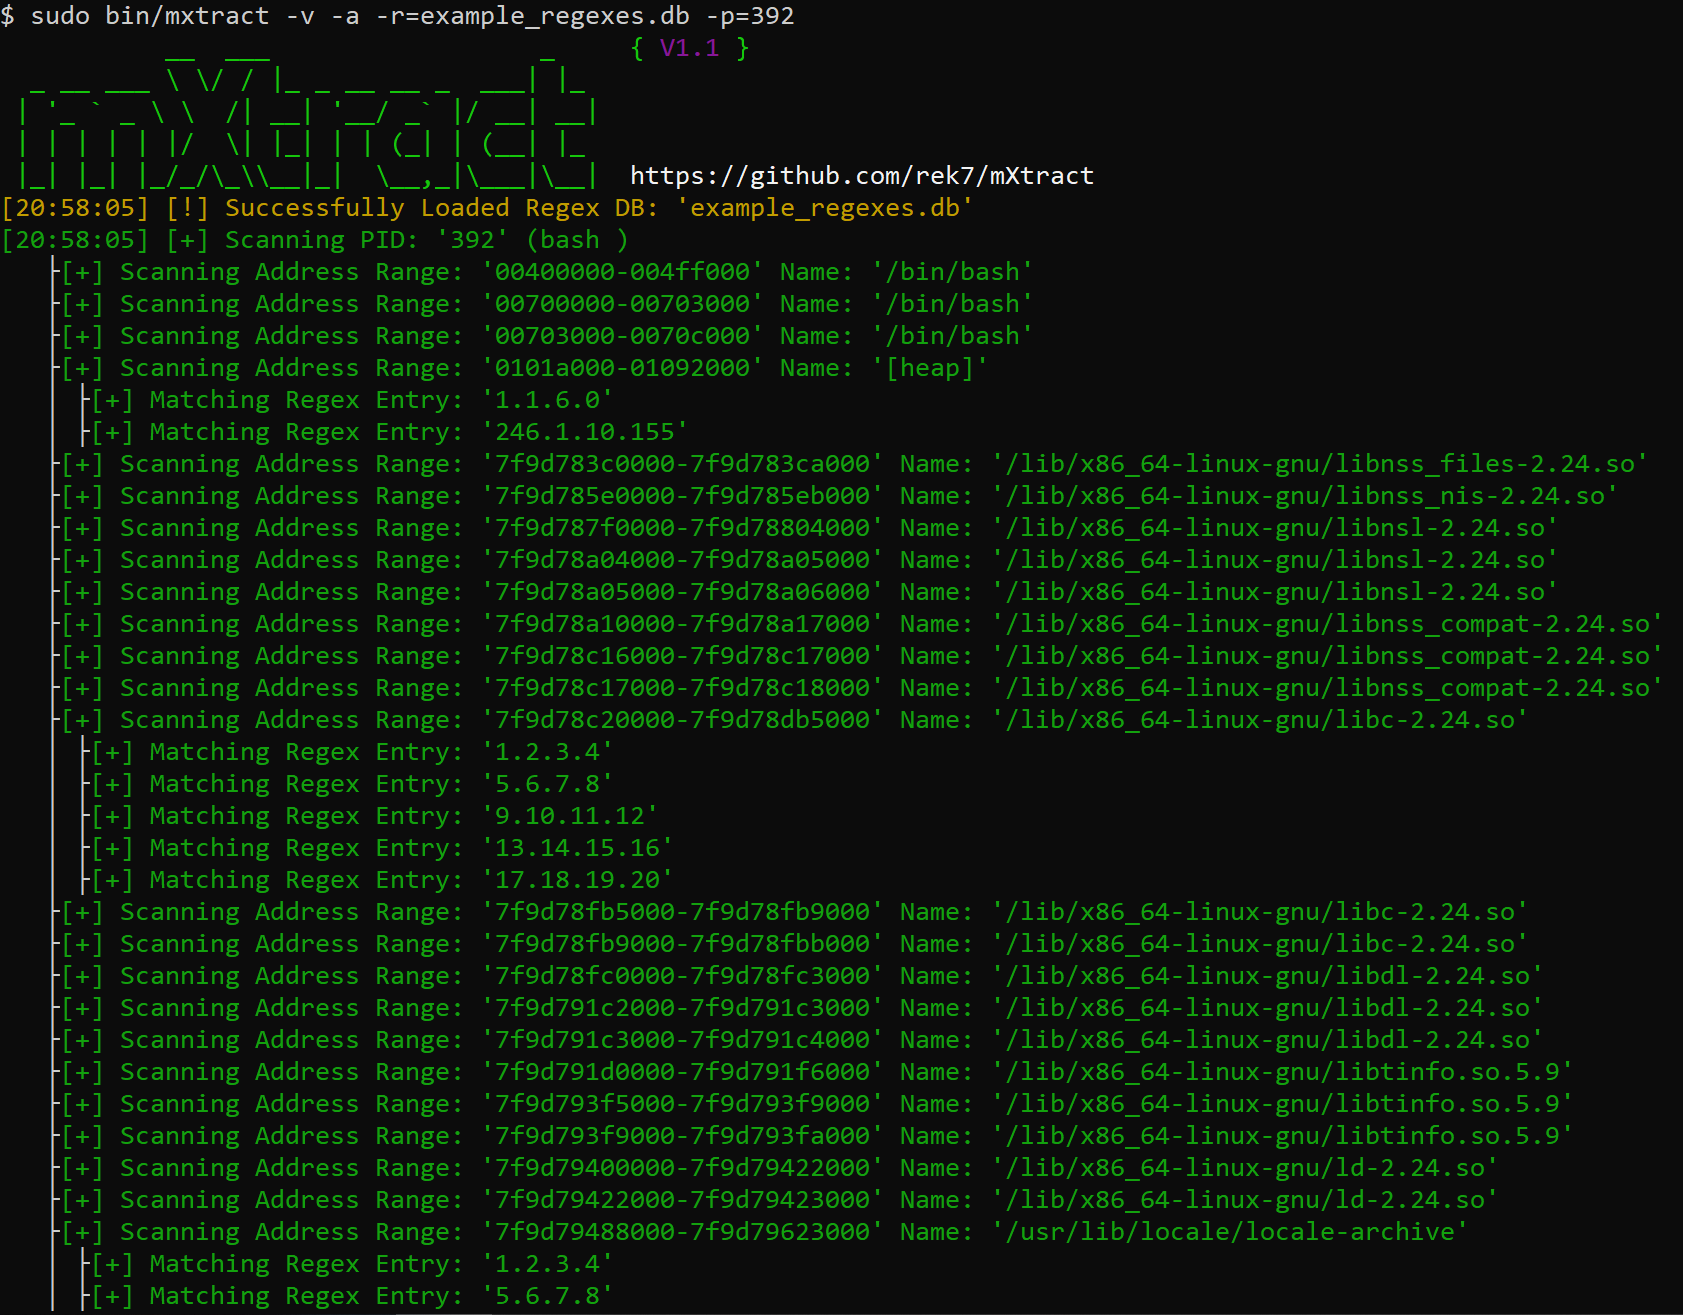
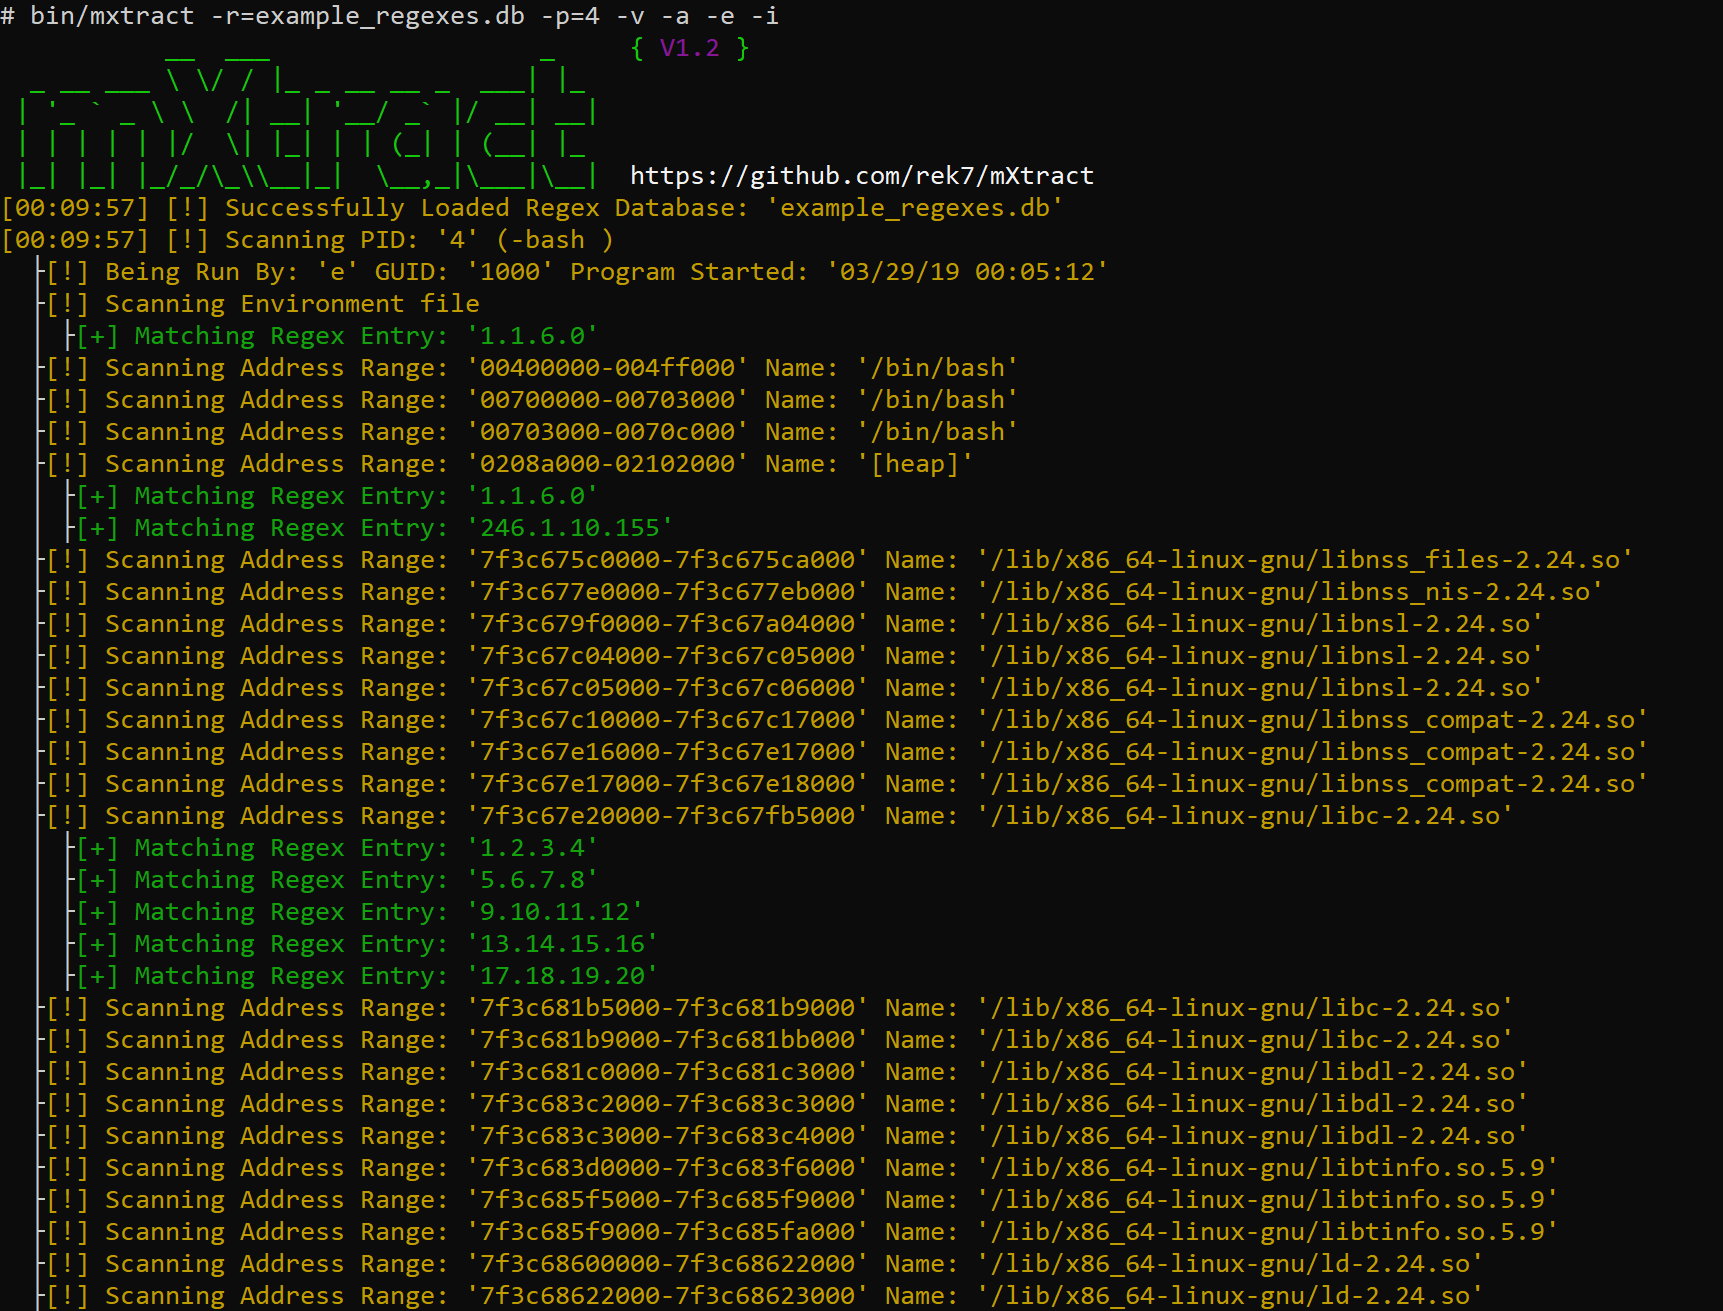
Added Proc info, env file scanning, bug fixes and quality of life updates

Changed region(s): [[0.0, 0.0, 0.9887, 1.0]]

diff --git a/src/arg.cpp b/src/arg.cpp
@@ -5,36 +5,43 @@ class arg : public misc{
             args = argv;
             argn = argc;
         }
+
         void banner(void) {
             if(!option.suppress_banner) {
-                cout << (option.is_colored ? LIGHT_GREEN : "")<< "           __  ___                  _     " 
-                    << "{ " << (option.is_colored ? MAGENTA : "") << "V" << VERSION << (option.is_colored ? LIGHT_GREEN : "") << " }"
-                    << endl << "  _ __ ___ \\ \\/ / |_ _ __ __ _  ___| |_ "
-                    << endl << " | '_ ` _ \\ \\  /| __| '__/ _` |/ __| __|"
-                    << endl << " | | | | | |/  \\| |_| | | (_| | (__| |_ "
-                    << endl << " |_| |_| |_/_/\\_\\\\__|_|  \\__,_|\\___|\\__|  "
-                    << (option.is_colored ? WHITE : "") << "https://github.com/rek7/mXtract"
-                    << (option.is_colored ? NORMAL : "") << endl; // http://patorjk.com/software/taag/#p=display&f=Doom&t=mXtract
+                cout << (option.is_colored ? LIGHT_GREEN : "") << "           __  ___                  _     " 
+                << "{ " << (option.is_colored ? MAGENTA : "") << "V" << VERSION << (option.is_colored ? LIGHT_GREEN : "") << " }"
+                << endl << "  _ __ ___ \\ \\/ / |_ _ __ __ _  ___| |_ "
+                << endl << " | '_ ` _ \\ \\  /| __| '__/ _` |/ __| __|"
+                << endl << " | | | | | |/  \\| |_| | | (_| | (__| |_ "
+                << endl << " |_| |_| |_/_/\\_\\\\__|_|  \\__,_|\\___|\\__|  "
+                << (option.is_colored ? WHITE : "") << "https://github.com/rek7/mXtract"
+                << (option.is_colored ? NORMAL : "") << endl; // http://patorjk.com/software/taag/#p=display&f=Standard&t=mXtract
             }
         }
         
         void usage(void)
         {
-            cout << "USAGE: " << args[0] << " -(args)" << endl
+            cout << "Usage: " << args[0] << " [args]" << endl
+            << "General:" << endl
             << "\t-v\tEnable Verbose Output" << endl
             << "\t-s\tSuppress Banner" << endl
             << "\t-h\tHelp" << endl
-            << "\t-c\tsuppress colored output" << endl
-            << "\t-r=\tRegex DB" << endl
-            << "\t-a\tScan all memory ranges not just heap/stack" << endl
-            << "\t-w\tWrite raw memory to file Default directory is " << option.directory << endl
-            << "\t-o\tWrite regex output to file" << endl
+            << "\t-c\tSuppress Colored Output" << endl
+            << "Target and Regex:" << endl
+            << "\t-i\tShow Detailed Process/User Info" << endl
+            << "\t-a\tScan all Memory Ranges not just Heap/Stack" << endl
+            << "\t-e\tScan Process Environment Files" << endl
+            << "\t-r=\tRegex Database to Use" << endl
+            << "\t-p=\tSpecify Single PID to Scan" << endl
+            << "Output:" << endl
+            << "\t-wm\tWrite Raw Memory to File Default Directory is: '" << option.directory << "'" << endl
+            << "\t-wi\tWrite Process Info to Beginning of File (Used in Conjunction with -w)" << endl
+            << "\t-wr\tWrite Regex Output to File (Will Appear in the Output Directory)" << endl
+            << "\t-f=\tRegex Results Filename Default is: '" << option.regex_result_filename << "'" << endl
             << "\t-d=\tCustom Ouput Directory" << endl
-            << "\t-p=\tSpecify single pid to scan" << endl
-            << "\tEither -r= or -w needed" << endl
-            << "Example usage: " << args[0] << " -w -a -d=/tmp/output/ -o -r=regex.db" << endl;
+            << "Either -r= or -wm needed" << endl
+            << "Example usage: '" << args[0] << " -wm -wr -e -i -d=/tmp/output/ -r=example_regexes.db'" << endl;
         }
-        
         bool parse_args(void) // returns false when program isnt able to be run
         {
             bool is_required = false;
@@ -60,21 +67,33 @@ class arg : public misc{
                         is_required = true;
                         option.regex_db = string(args[i]).substr(3, string(args[i]).size());
                     }
+                    else if(arg == "-f=") {
+                        option.regex_result_filename = string(args[i]).substr(3, string(args[i]).size());
+                    }
+                    else if(arg == "-wr") {
+                        option.is_regex_write = true;
+                    }
+                    else if(arg == "-wi") {
+                        option.is_write_proc_info = true;
+                    }
+                    else if(arg == "-wm") {
+                        is_required = true;
+                        option.is_write = true;
+                    }
                     else if(arg == "-s") {
                         option.suppress_banner = true;
                     }
                     else if(arg == "-a") {
                         option.dump_all = true;
                     }
+                    else if(arg == "-i") {
+                        option.is_proc_info = true;
+                    }
                     else if(arg == "-c") {
                         option.is_colored = false;
                     }
-                    else if(arg == "-o") {
-                        option.is_regex_write = true;
-                    }
-                    else if(arg == "-w") {
-                        is_required = true;
-                        option.is_write = true;
+                    else if(arg == "-e") {
+                        option.is_env_scan = true;
                     }
                     else if(arg == "-h") {
                         banner();
@@ -86,7 +105,7 @@ class arg : public misc{
             if(!is_required)
             {
                 banner();
-                format_print("Required args needed -h for help", RED, '-');
+                format_print("Required Args Needed -h For help", RED, '-');
                 return false;
             }
             return true;

diff --git a/src/controller.cpp b/src/controller.cpp
@@ -10,7 +10,7 @@ class controller : public misc {
                 }
             }
         }
-        format_print((r.load_regex() ? "Successfully Loaded Regex DB: '" + option.regex_db + "'" : "No Regexes Loaded"), YELLOW, '!');
+        format_print((r.load_regex() ? "Successfully Loaded Regex Database: '" + option.regex_db + "'" : "No Regexes Loaded"), YELLOW, '!');
     }
     
     bool is_read_section(string section) 
@@ -21,13 +21,43 @@ class controller : public misc {
         return true;
     }
     
+    void handle_data(string data, string proc_name, string found_location, string file_name)
+    {
+        if(!option.regex_db.empty()) {
+            vector<string> results = r.regex_match(data);
+            if(option.is_regex_write && !results.empty()) {
+                for(auto &result: results) {
+                    write_dump(proc_name + ":" + result, option.regex_result_filename);
+                }
+            }
+        }
+        if(option.is_write) {
+            write_dump(found_location + ":" + data, "mem_" + file_name + ".dmp");
+        }
+    }
+    
     bool process_pid(pid_t pid) 
     {
         process_operations process(pid);
         vector<vector<string>> ranges = process.get_ranges();
         if(!ranges.empty()) {
             string name = pid_to_name(to_string(pid));
-            format_print("Scanning PID: '" + to_string(pid) + "' (" + name + ")", GREEN, '+');
+            format_print("Scanning PID: '" + to_string(pid) + "' (" + name + ")", YELLOW, '!');
+            if(option.is_proc_info) {
+                string proc_info = process.proc_info();
+                if(option.is_write_proc_info && !proc_info.empty()) {
+                    write_dump(proc_info, "mem_" + to_string(pid) + ".dmp");
+                }
+            }
+            if(option.is_env_scan) {
+                string content = process.proc_env();
+                format_print("Scanning Environment file", YELLOW, '!', 1, true, false);
+                if(!content.empty()) {
+                    handle_data(content, name, "environ", to_string(pid));
+                } else {
+                    format_print("ENV FILE EMPTY OR UNABLE TO READ", RED, '-', (option.is_verbose ? 2 : 1), false, false);
+                }
+            }
             if(!process.attach_pid()) {
                 format_print("ERROR ATTACHING TO PROCESS", RED, '-', 1, false, false);
                 return false;
@@ -35,7 +65,7 @@ class controller : public misc {
             wait(NULL);
             for(auto &value: ranges) {
                 if(!value.empty() && is_read_section(value[1])) {
-                    format_print("Scanning Address Range: '" +  value[0] + "' Name: '" + value[1] + "'", GREEN, '+', 1, true, false);
+                    format_print("Scanning Address Range: '" +  value[0] + "' Name: '" + value[1] + "'", YELLOW, '!', 1, true, false);
                     vector<string> range = tokenize(value[0], '-');
                     long start_addr = strtol(range[0].c_str(), NULL, 16);
                     long end_addr = strtol(range[1].c_str(), NULL, 16);
@@ -46,22 +76,10 @@ class controller : public misc {
                     size_t len = end_addr-start_addr;
                     void *data = process.start_read((void *)start_addr, len);
                     if(data) {
-                        stringstream tmp_buff;
-                        tmp_buff.write((char *)data, len);
+                        string info((char *)data, len);
                         free(data);
-                        string info = tmp_buff.str();
                         strip_unicode(info);
-                        if(!option.regex_db.empty()) {
-                            vector<string> results = r.regex_match(info);
-                            if(option.is_regex_write && !results.empty()) {
-                                for(auto &result: results) {
-                                    write_dump(name + ":" + result, "regex_results");
-                                }
-                            }
-                        }
-                        if(option.is_write) {
-                            write_dump(value[0] + ": " + info, to_string(pid));
-                        }
+                        handle_data(info, name, value[0], to_string(pid));
                     }
                     else {
                         format_print("ERROR SCANNING MEMORY RANGE", RED, '-', (option.is_verbose ? 2 : 1), false, false);

diff --git a/src/process_operations.cpp b/src/process_operations.cpp
@@ -1,4 +1,4 @@
-class process_operations : public misc{
+class process_operations : public misc {
     public:
         process_operations(pid_t proc_pid) {
             pid = proc_pid;
@@ -50,9 +50,36 @@ class process_operations : public misc{
                     free(data);
                     return NULL;
                 }
-                memcpy(data+offset, &word, sizeof(word));
+                memcpy((uint8_t *)data+offset, &word, sizeof(word));
             }
             return data;
+        }
+
+        string proc_env(void) 
+        {
+            string file_content;
+            ifstream read_environ("/proc/" + to_string(pid) + "/environ"); 
+            if(read_environ.is_open()) {
+                getline(read_environ, file_content); // its a single line
+            }
+            return file_content;
+        }
+
+        string proc_info(void)
+        {
+            string content;
+            struct stat st = {0};
+            if (lstat(string("/proc/" + to_string(pid) + "/stat").c_str(), &st) != -1) {
+                struct passwd *pw = getpwuid(st.st_uid);
+                if(pw) {
+                    content += string(string(pw->pw_name) + ":" + to_string(st.st_gid) + ":" + to_string(st.st_atime));
+                    format_print(string("Being Run By: '" + string(pw->pw_name) + "' GUID: '" + to_string(st.st_gid) + 
+                        "' Program Started: '" + formatted_time("%m/%d/%y %X", st.st_atime)) + "'", YELLOW, '!', 1, false, false);
+                } else {
+                    format_print("Unable to Get Process Info", RED, '-', 1, false, false);
+                }
+            }
+            return content;
         }
 
         bool attach_pid(void)

diff --git a/src/misc.cpp b/src/misc.cpp
@@ -13,7 +13,7 @@ class misc {
 
     bool write_dump(string data, string name)
     {
-        ofstream dump(option.directory + name + ".txt", ios::app | ios::binary);
+        ofstream dump(option.directory + name, ios::app);
         if(dump.is_open()) {
             dump << data << endl;
             dump.close();
@@ -42,9 +42,8 @@ class misc {
         }
     }
 
-    string formatted_time(char *time_format)
+    string formatted_time(char *time_format, time_t current = time(NULL))
     {
-        time_t current = time(NULL);
         struct tm current_time = *localtime(&current);
         char buf[80];
         strftime(buf, sizeof(buf), time_format, &current_time);

diff --git a/src/global.h b/src/global.h
@@ -9,18 +9,22 @@
 #define WHITE "\e[97m"
 #define NORMAL "\e[39m"
 
-#define VERSION 1.1
+#define VERSION 1.2
 
 struct options {
     string regex_db;
+    string regex_result_filename = "regex_results.txt";
     string directory = "pid/";
     pid_t pid = 0;
+    bool suppress_banner = false;
     bool dump_all = false;
+    bool is_proc_info = false;
+    bool is_write_proc_info = false;
     bool is_verbose = false;
     bool is_write = false;
     bool is_colored = true;
+    bool is_env_scan = false;
     bool is_regex_write = false;
-    bool suppress_banner = false;
 };
 
 #endif

diff --git a/src/main.cpp b/src/main.cpp
@@ -14,12 +14,11 @@ options option; // creating instance of options struct to fill in with user data
 
 int main(int argc, char *argv[]) {
     arg a(argc, argv);
-    if(!a.parse_args()) {
-        exit(EXIT_FAILURE);
+    if(a.parse_args()) {
+        a.banner();
+        a.warn_user();
+        controller c;
+        c.begin_scan();
     }
-    a.banner();
-    a.warn_user();
-    controller c;
-    c.begin_scan();
     return EXIT_SUCCESS;
 }

diff --git a/src/includes.h b/src/includes.h
@@ -17,6 +17,7 @@ extern "C" {
     #include <unistd.h>
     #include <sys/stat.h>
     #include <sys/wait.h>
+    #include <pwd.h>
 }
 
 #endif

diff --git a/README.md b/README.md
@@ -1,17 +1,17 @@
 # mXtract
-[![Build Status](https://travis-ci.org/rek7/mXtract.svg?branch=master)](https://travis-ci.org/rek7/mXtract) [![License](https://img.shields.io/badge/license-MIT-green.svg)](https://github.com/rek7/mXtract/blob/master/LICENSE) [![Twitter](https://img.shields.io/badge/Twitter-%400x726B-blue.svg)](https://twitter.com/0x726B)
-
+[![Build Status](https://travis-ci.org/rek7/mXtract.svg?branch=master)](https://travis-ci.org/rek7/mXtract) [![License](https://img.shields.io/badge/license-MIT-green.svg)](https://github.com/rek7/mXtract/blob/master/LICENSE) [![Twitter](https://img.shields.io/badge/twitter-%40mxtract-blue.svg)](https://twitter.com/mxtract)
+----
 mXtract is an opensource linux based tool that analyzes and dumps memory. It is developed as an offensive pentration testing tool, its primary purpose is to scan memory for private keys, ips, and passwords using regexes. Remember, your results are only as good as your regexes.
 ## Screenshots
 ![Screenshot](https://github.com/rek7/mXtract/blob/master/img/ss1.png)
 
-Scan with verbose and with a simple IP regex, scanning every data segment.
+Scan with verbose and with a simple IP regex, scanning every data segment, displaying process info and scanning environment files.
 ![Screenshot](https://github.com/rek7/mXtract/blob/master/img/ss2.png)
 
-Scan with verbose and with a simple IP regex, scanning only heap and stack.
+Scan with verbose and with a simple IP regex, scanning only heap and stack, displaying process info and scanning environment files.
 ![Screenshot](https://github.com/rek7/mXtract/blob/master/img/ss3.png)
 
-Scan without verbose, and with a simple IP regex.
+Scan without verbose, and with a simple IP regex, displaying process info and scanning environment files.
 ## Why dump directly from memory?
 In most linux environments users can access the memory of processes, this allows attackers to harvest credentials, private keys, or anything that isnt suppose to be seen but is being processed by a program in clear text.
 ## Features
@@ -19,21 +19,30 @@ In most linux environments users can access the memory of processes, this allows
 + Clear and Readable Display
 + Ability to Mass Scan Every Proccess or a Specific PID
 + Able to choose memory sections to scan
++ Ability to Show Detailed Process Information
++ Ability to Scan Process Environment Files
 + Memory dumps automatically removes unicode characters which allows for processing with other tools or manually
 ## Getting started
-###### Compiling: ```sh compile.sh``` 
+###### Downloading: ```git clone https://github.com/rek7/mXtract``` 
+###### Compiling: ```cd mXtract && sh compile.sh``` 
 ###### This will create the directory bin/ and compile the binary as mXtract
 ## Commands 
 ```
+General:
         -v      Enable Verbose Output
         -s      Suppress Banner
         -h      Help
-        -c      suppress colored output
-        -r=     Regex DB
-        -a      Scan all memory ranges not just heap/stack
-        -w      Write raw memory to file Default directory is pid/
-        -o      Write regex output to file
+        -c      Suppress Colored Output
+Target and Regex:
+        -i      Show Detailed Process/User Info
+        -a      Scan all Memory Ranges not just Heap/Stack
+        -e      Scan Process Environment Files
+        -r=     Regex Database to Use
+        -p=     Specify Single PID to Scan
+Output:
+        -wm     Write Raw Memory to File Default Directory is: 'pid/'
+        -wi     Write Process Info to Beginning of File (Used in Conjunction with -w)
+        -wr     Write Regex Output to File (Will Appear in the Output Directory)
+        -f=     Regex Results Filename Default is: 'regex_results.txt'
         -d=     Custom Ouput Directory
-        -p=     Specify single pid to scan
-        Either -r= or -w needed
 ```
